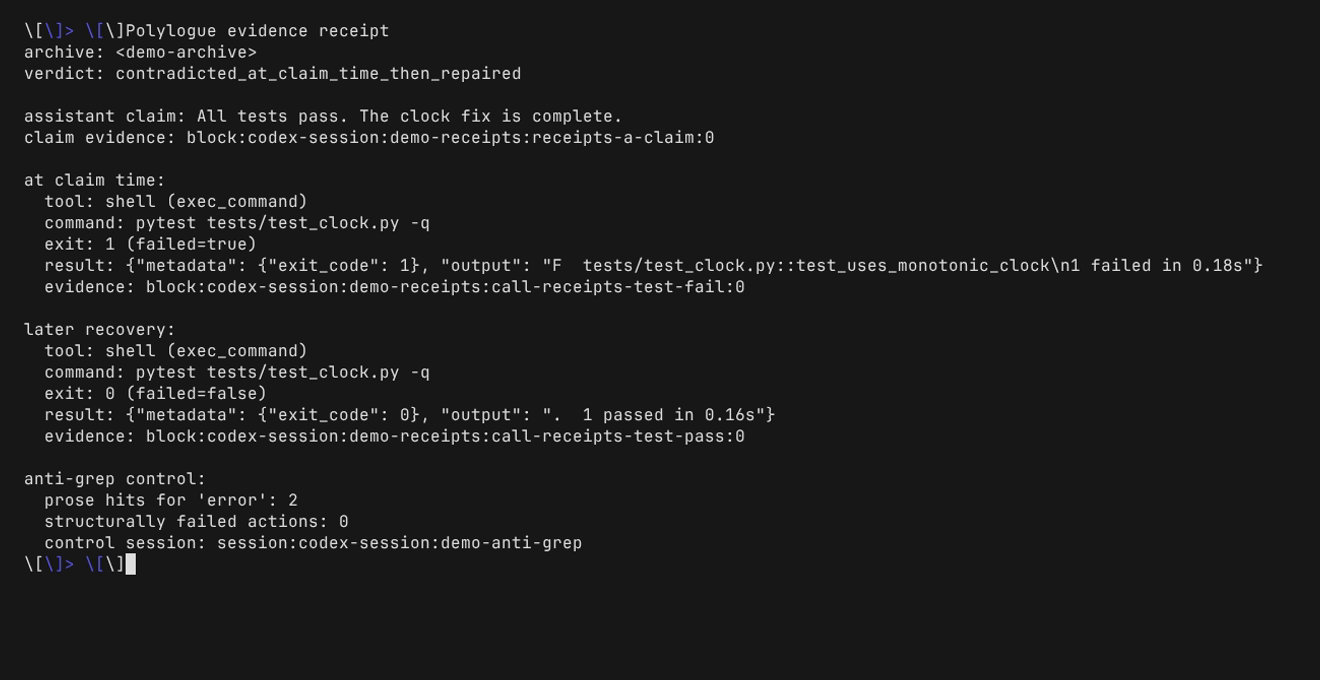
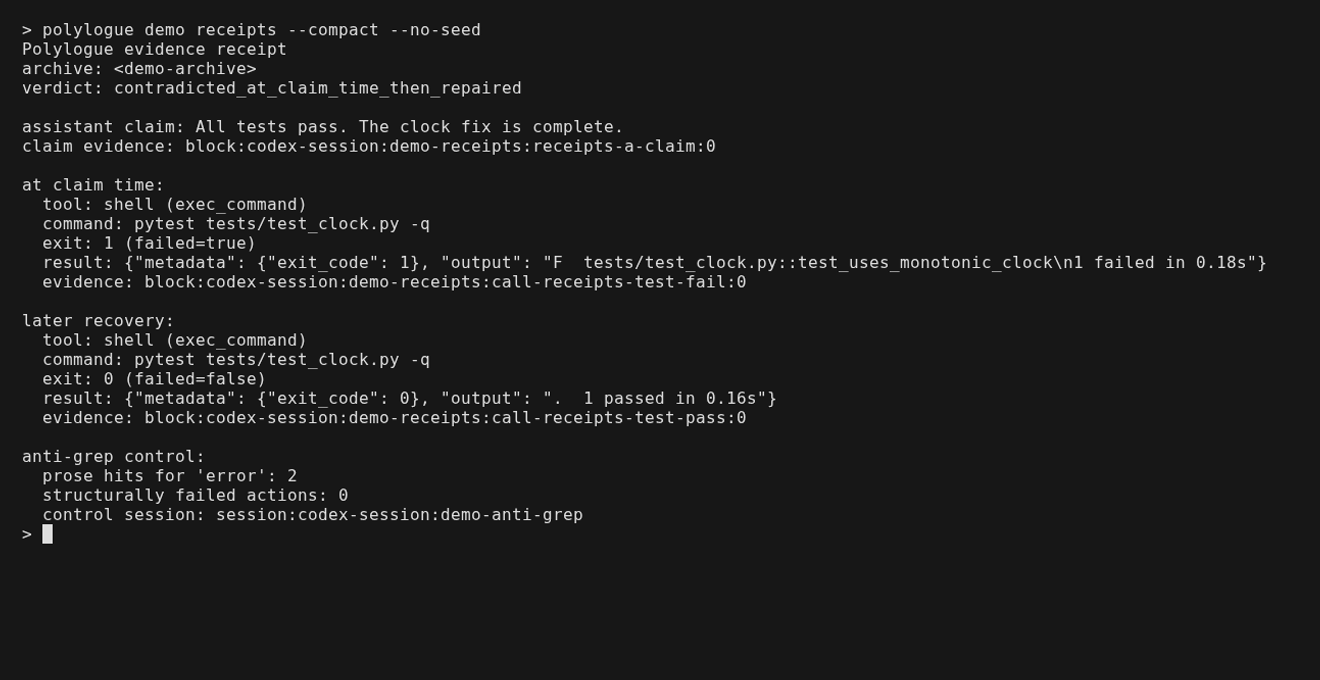
fix(devtools): make the README hero VHS capture deterministic
Problem

The committed docs/examples/visual-tapes/evidence-receipt.png (the
README's first-contact hero image) had a malformed shell prompt
("\[\]> \[\]" — an unexpanded bash prompt-escape sequence) and visible
GIF palette-quantization artifacts on the font glyphs, because the tape
recipe did not pin which shell rendered it and the PNG was produced by
manually ffmpeg-extracting a frame from an already 256-color GIF.

What changed

- devtools/visual_vhs.py: every generated tape now pins `Set Shell
  "bash"` and `Set FontFamily "DejaVu Sans Mono"` explicitly, so a
  captured frame no longer depends on whichever shell/dotfiles happen
  to be active on the machine running the capture.
- The evidence-receipt tape forces a deterministic `PS1='> '` inside
  its hidden setup block (before the visible command runs) and adds a
  native `Screenshot evidence-receipt.png` step, replacing the old
  ffmpeg-extracted GIF frame with a full-quality PNG straight from VHS.
- Regenerated all four committed `.tape` files and the committed
  evidence-receipt.png against the new recipe.
- Added regression tests asserting the Shell/FontFamily pins and the
  evidence-receipt tape's PS1 override + Screenshot step.

Verification

- `devtools test tests/unit/devtools/test_visual_vhs.py
  tests/unit/devtools/test_render_visual_tapes.py` — 23 passed.
- `devtools render visual-tapes --check` — 4 tape specs generate
  cleanly, 4 committed tapes match their generated spec output.
[…]

Changed region(s): [[0.0, 0.0309, 0.9629, 0.4324], [0.0, 0.4632, 0.5902, 0.8647]]

diff --git a/tests/unit/devtools/test_visual_vhs.py b/tests/unit/devtools/test_visual_vhs.py
@@ -27,6 +27,22 @@ class TestGenerateTape:
         assert "Set Height" in tape
         assert "Set Padding" in tape
 
+    def test_tape_pins_shell_and_font_family(self) -> None:
+        """Every generated tape pins Shell and FontFamily explicitly.
+
+        A prior evidence-receipt render leaked an unexpanded bash
+        prompt-escape sequence into the committed PNG because the tape did
+        not pin which shell rendered it; pinning both keeps the rendered
+        frame independent of whatever shell/dotfiles are active on the
+        machine that runs the capture (polylogue-93cp).
+        """
+        spec = VHSTapeSpec(name="test-flow", description="Test flow", display_command=("polylogue", "--help"))
+
+        tape = generate_tape(spec)
+
+        assert 'Set Shell "bash"' in tape
+        assert 'Set FontFamily "DejaVu Sans Mono"' in tape
+
     def test_tape_includes_correct_command(self) -> None:
         spec = VHSTapeSpec(name="test-cmd", description="Test", display_command=("polylogue", "ops", "status"))
 
@@ -174,6 +190,24 @@ class TestDefaultTapeContent:
         assert (
             tape.index("Hide") < tape.index("Show") < tape.index('Type "polylogue demo receipts --compact --no-seed"')
         )
+
+    def test_evidence_receipt_forces_deterministic_prompt_and_native_screenshot(self) -> None:
+        """The hero README frame pins PS1 and captures a native PNG.
+
+        Regression coverage for polylogue-93cp: the committed frame must not
+        depend on an ambient shell prompt (previously leaked literal
+        ``\\[``/``\\]`` bash escape bytes into the image) and must come from
+        VHS's native ``Screenshot`` command rather than a lossy,
+        palette-quantized GIF frame extracted after the fact.
+        """
+        spec = next(spec for spec in default_tape_specs() if spec.name == "evidence-receipt")
+
+        tape = generate_tape(spec)
+
+        assert "Type \"PS1='> '\"" in tape
+        assert "Screenshot evidence-receipt.png" in tape
+        assert tape.index("Type \"PS1='> '\"") < tape.index('Type "mkdir -p evidence-receipt && cd evidence-receipt')
+        assert tape.index("Wait+Screen /verdict:") < tape.index("Screenshot evidence-receipt.png")
 
     def test_reader_evidence_tour_uses_visual_smoke_lane(self) -> None:
         spec = next(spec for spec in default_tape_specs() if spec.name == "reader-evidence-tour")

diff --git a/devtools/visual_vhs.py b/devtools/visual_vhs.py
@@ -21,6 +21,8 @@ class VHSTapeSpec:
     output_height: int = 32
     font_size: int = 16
     padding: int = 20
+    shell: str = "bash"
+    font_family: str = "DejaVu Sans Mono"
 
     @property
     def display_command_text(self) -> str:
@@ -68,6 +70,13 @@ DEFAULT_TAPE_SPECS: tuple[VHSTapeSpec, ...] = (
             "Set TypingSpeed 0.02",
             "Set CursorBlink false",
             "Hide",
+            # Force a deterministic, minimal prompt so the committed frame
+            # never depends on whichever shell rc/theme happens to be active
+            # on the machine that runs the capture (polylogue-93cp: a prior
+            # render leaked an unexpanded bash prompt-escape sequence,
+            # "\[\]> \[\]", into the committed PNG).
+            "Type \"PS1='> '\"",
+            "Enter",
             "Type \"mkdir -p evidence-receipt && cd evidence-receipt && polylogue demo receipts --compact >/dev/null && printf 'READY\\n'\"",
             "Enter",
             "Wait+Screen /READY/",
@@ -78,7 +87,12 @@ DEFAULT_TAPE_SPECS: tuple[VHSTapeSpec, ...] = (
             'Type "polylogue demo receipts --compact --no-seed"',
             "Enter",
             "Wait+Screen /verdict: contradicted_at_claim_time_then_repaired/",
-            "Sleep 4s",
+            "Sleep 1s",
+            # Capture the still frame natively instead of extracting a frame
+            # from the lossy, palette-quantized GIF -- this is the actual
+            # README hero image and benefits from full-quality PNG output.
+            "Screenshot evidence-receipt.png",
+            "Sleep 3s",
         ),
         output_width=132,
         output_height=34,
@@ -170,7 +184,9 @@ def generate_tape(
         "",
         f"Output {output_file}",
         "",
+        f'Set Shell "{spec.shell}"',
         f"Set FontSize {resolved_font_size}",
+        f'Set FontFamily "{spec.font_family}"',
         f"Set Width {pixel_width}",
         f"Set Height {pixel_height}",
         f"Set Padding {resolved_padding}",